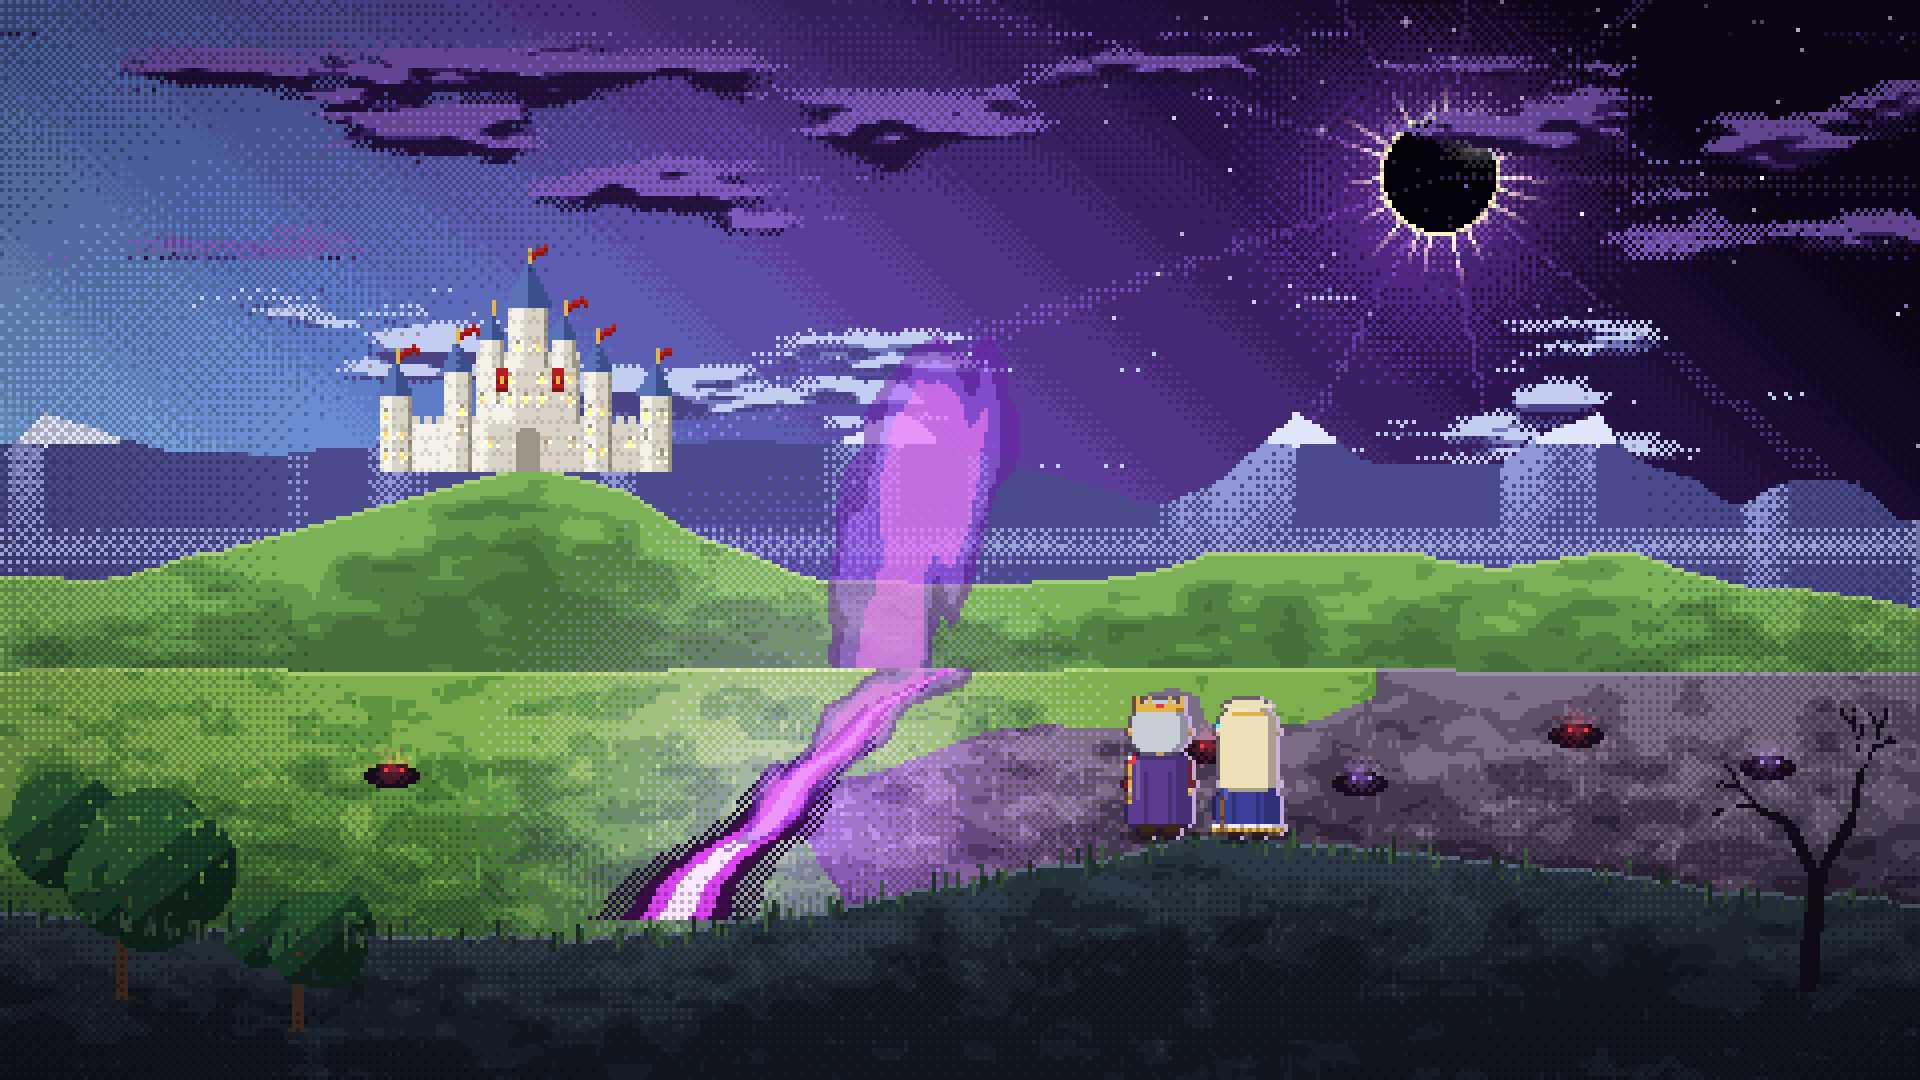
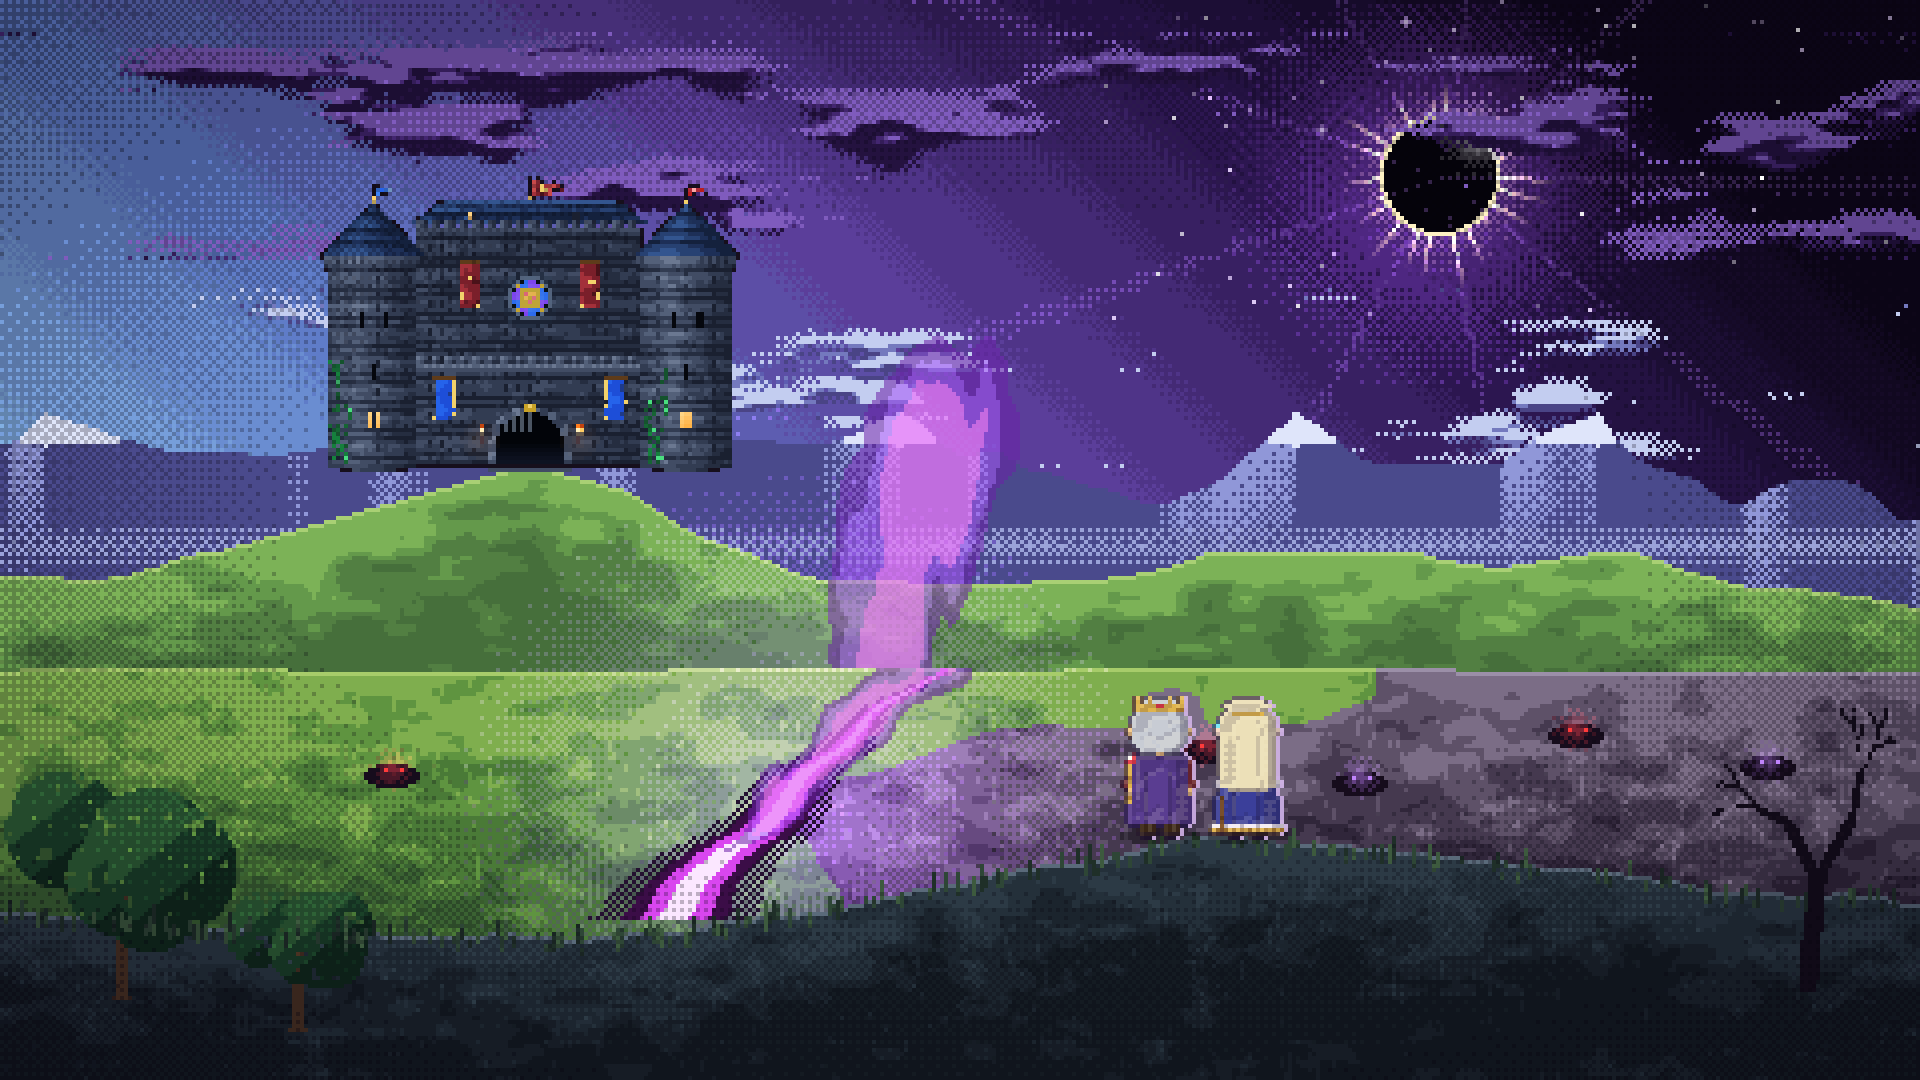
ft: singular layout of the castle and new version of critical damage system

Changed region(s): [[0.1562, 0.1528, 0.4062, 0.4583], [0.5938, 0.6417, 0.6875, 0.7639]]

diff --git a/tools/art/lib/sprites.js b/tools/art/lib/sprites.js
@@ -13,9 +13,12 @@ import { MageClass } from "../../../js/classes/mage.js";
 import { PriestClass } from "../../../js/classes/priest.js";
 import { ArcherClass } from "../../../js/classes/archer.js";
 import { FighterClass } from "../../../js/classes/fighter.js";
+import { describe } from "../../../js/items/itemdb.js";
+import { iconCanvas } from "../../../js/items/icons.js";
 
 const CLASSES = { knight: KnightClass, mage: MageClass, priest: PriestClass, archer: ArcherClass, fighter: FighterClass };
 const cache = new Map();
+const zoneCache = new Map();
 
 // Reference looks for Book I NPCs added with Acts XI–XV, used when js/npc/roster.js has no entry
 // for them yet (the roster wins once it does). Copy these into NPC_DEFS to keep the art in step.
@@ -63,8 +66,36 @@ export function boss(key, dir = "down", anim = "idle", i = 0) { return BOSSES[ke
 
 export const DEFAULT_LOOK = DEFAULT_CONFIG;
 
-import { describe } from "../../../js/items/itemdb.js";
-import { iconCanvas } from "../../../js/items/icons.js";
+/** A frame of an exported zone illustration (e.g. the Imperial Citadel). */
+export async function zone(key, i = 0, cropHeight = null) {
+  const cacheKey = `${key}:${cropHeight || "full"}`;
+  if (!zoneCache.has(cacheKey)) {
+    zoneCache.set(cacheKey, (async () => {
+      const base = new URL(`../../../assets/sprites/zone/${key}`, import.meta.url);
+      const response = await fetch(new URL(`${base.href}.json`));
+      if (!response.ok) throw new Error(`could not load ${base.href}.json`);
+      const data = await response.json();
+      const image = await new Promise((resolve, reject) => {
+        const img = new Image();
+        img.onload = () => resolve(img);
+        img.onerror = () => reject(new Error(`could not load ${base.href}.png`));
+        img.src = `${base.href}.png`;
+      });
+      const frames = Array.isArray(data.frames) ? data.frames : Object.values(data.frames);
+      return frames.map(({ frame }) => {
+        const canvas = document.createElement("canvas");
+        const h = cropHeight ? Math.min(cropHeight, frame.h) : frame.h;
+        canvas.width = frame.w;
+        canvas.height = h;
+        canvas.getContext("2d").drawImage(image, frame.x, frame.y, frame.w, h, 0, 0, frame.w, h);
+        return canvas;
+      });
+    })());
+  }
+  const frames = await zoneCache.get(cacheKey);
+  if (!frames.length) throw new Error(`zone sprite ${key} has no frames`);
+  return frames[((i % frames.length) + frames.length) % frames.length];
+}
 /** 16×16 item icon by item id (e.g. lance, tower, greatstaff, grimoire, longbow, claws) */
 export function icon(id) { return iconCanvas(describe({ id })); }
 

diff --git a/tools/art/scenes/act01.js b/tools/art/scenes/act01.js
@@ -1,8 +1,8 @@
 // Act I — The Sundered Dominion of Aethelgard
 // The King and the Crown Heir watch the Eclipse of the Abyss from a ridge above the plains: the
 // white Imperial Citadel still stands, but the valley floor has split and Void Miasma pours out.
-export function paint(P, { R, K, S }) {
-  const { hex, eclipse, clouds, ridgeFn, ridge, castle, fogBand, oak, stars, mixC, dith, fbm, clamp, groundTex, stand, rimLight } = K;
+export async function paint(P, { R, K, S }) {
+  const { hex, eclipse, clouds, ridgeFn, ridge, fogBand, oak, stars, mixC, dith, fbm, clamp, groundTex, stand, rimLight } = K;
 
   // Sky: azure on the left giving way to amethyst and black under the eclipse
   const skyStops = [[0, hex("#8cc0ec")], [0.3, hex("#5f7cc8")], [0.55, hex("#5b3e9a")], [0.78, hex("#2c1650")], [1, hex("#0d0618")]];
@@ -22,7 +22,7 @@ export function paint(P, { R, K, S }) {
   ridge(P, mid, groundTex(["#9bc46a", "#6fa452", "#5a8f48", "#4a7a40", "#3d6838"], { seed: 3, depth: 40, strokes: false }));
   const hillTop = (x) => mid(x) - Math.max(0, 22 - Math.abs(x - 132) * 0.28);
   ridge(P, hillTop, groundTex(["#a9d074", "#7cb257", "#64994b", "#527f42", "#466f3b"], { seed: 8, depth: 30, strokes: false }));
-  castle(P, 132, hillTop(132) + 2, { scale: 0.58, style: "imperial", seed: 9, glow: true });
+  P.blit(await S.zone("castle", 0, 210), 132 - 56, hillTop(132) + 2 - 74, { scale: 0.35 });
 
   // Valley floor: green on the left, blighted to grey-violet toward the eclipse
   const valley = (x) => 166 + K.fbm1(x * 0.02, 8) * 3;

diff --git a/js/prologue.js b/js/prologue.js
@@ -1,6 +1,7 @@
 import { getLang } from "./i18n.js";
 import { Sound } from "./audio.js";
 import { Avatar } from "./avatar/avatar.js";
+import { sheetCount, sheetDurations, sheetFrame } from "./avatar/sheets.js";
 import { NPC_DEFS, summonerIdFor } from "./npc/roster.js";
 import { npcName } from "./dialogue.js";
 
@@ -61,6 +62,20 @@ function ridge(ctx, baseY, amp, step, color, seed, shift = 0) {
 
 // Silhouette of the Imperial Citadel (used in scenes 1 and 2)
 function citadel(ctx, cx, baseY, stone, shade, t, bannerA = "#8a2c2c", bannerB = "#ffd166") {
+  const key = "zone/castle", frames = sheetCount(key, "down", "idle");
+  const durations = sheetDurations(key, "down", "idle");
+  const total = durations.reduce((sum, duration) => sum + duration, 0) || frames * 100;
+  let elapsed = total ? ((t * 1000 / 60) % total) : 0, index = 0;
+  while (index < frames - 1 && elapsed >= (durations[index] || 100)) elapsed -= durations[index++] || 100;
+  const frame = frames ? sheetFrame(key, "down", "idle", index) : null;
+  if (frame) {
+    const w = 176, h = 187;
+    const prev = ctx.imageSmoothingEnabled;
+    ctx.imageSmoothingEnabled = false;
+    ctx.drawImage(frame, Math.round(cx - w / 2), Math.round(baseY - h), w, h);
+    ctx.imageSmoothingEnabled = prev;
+    return;
+  }
   const towers = [[-58, 46, 10], [-34, 62, 12], [-8, 84, 16], [20, 62, 12], [44, 46, 10]];
   ctx.fillStyle = stone;
   ctx.fillRect(cx - 64, baseY - 30, 128, 30);                    // pader

diff --git a/tools/art/scenes/title.js b/tools/art/scenes/title.js
@@ -2,8 +2,8 @@
 // Night on the cliff above the Imperial Citadel: the sword the Lantern Knight left behind stands in
 // the seal altar, a lantern hanging from its hilt, while the eclipse rises over the sea.
 // The sword's glow sits at (0.5, 0.42) of the picture: js/title.js draws its animated glow there.
-export function paint(P, { R, K }) {
-  const { hex, sky, stars, eclipse, clouds, ridgeFn, ridge, castle, water, fogBand, runeCircle, POINT_COLORS, groundTex, rock, sparks, moon } = K;
+export async function paint(P, { R, K, S }) {
+  const { hex, sky, stars, eclipse, clouds, ridgeFn, ridge, water, fogBand, runeCircle, POINT_COLORS, groundTex, rock, sparks, moon } = K;
 
   sky(P, [[0, hex("#04060f")], [0.5, hex("#121a3a")], [0.85, hex("#2c2a5a")], [1, hex("#4a3a6a")]], 0, 170, 3);
   stars(P, R, 220, { y1: 150, big: 0.07 });
@@ -14,7 +14,7 @@ export function paint(P, { R, K }) {
   water(P, 150, 210, { deep: "#060a1a", mid: "#0f1a3a", light: "#2a3a6a", foam: "#8aa0d8", seed: 2, reflect: "#c4b5fd", reflectX: 392, reflectW: 10 });
   const shore = ridgeFn({ base: 152, amp: 22, freq: 0.02, seed: 4, sharp: 0.5 });
   ridge(P, (x) => (x < 170 ? shore(x) : 400), "#141838", { light: "#262c58" });
-  castle(P, 84, shore(84) + 4, { scale: 0.42, style: "imperial", seed: 3, glow: true });
+  P.blit(await S.zone("castle", 0, 210), 84 - 45, shore(84) + 4 - 59, { scale: 0.28 });
   fogBand(P, 168, 10, "#2c3466", 0.5, 5);
 
   // the cliff and the altar steps

diff --git a/js/projectiles.js b/js/projectiles.js
@@ -152,7 +152,7 @@ export class ProjectileManager {
         for (let e of enemies) {
           if (e.isAlive && Math.hypot(cx(e) - p.x, cy(e) - p.y) <= 12 + hr(e)) {
             hit = true;
-            enemyManager.damage(e, p.crit ? Math.round(p.damage * 1.8) : p.damage, Math.atan2(p.vy, p.vx), Boolean(p.crit), fx, lootManager, 6, false, player, p.elem);
+            enemyManager.damage(e, p.damage, Math.atan2(p.vy, p.vx), Boolean(p.crit), fx, lootManager, 6, false, player, p.elem);
             if (p.freeze && !e.boss) { e.stunTimer = Math.max(e.stunTimer, p.freeze); e.frozen = p.freeze; }
             if (fx) fx.spawnHitSparks(cx(e), cy(e), p.color, 10);
             break;
@@ -188,7 +188,7 @@ export class ProjectileManager {
           if (e.isAlive && !p.hit.has(e) && Math.hypot(cx(e) - p.x, cy(e) - p.y) <= p.radius + hr(e)) {
             p.hit.add(e);
             const bonus = p.markBonus && e.isMarkedCritical ? p.markBonus : 1;   // Fighter: bonus against a marked foe
-            enemyManager.damage(e, Math.round(p.damage * bonus), p.angle, bonus > 1, fx, lootManager, p.push || 16, false, player, p.elem || null);
+            enemyManager.damage(e, Math.round(p.damage * bonus), p.angle, false, fx, lootManager, p.push || 16, false, player, p.elem || null);
             if (bonus > 1) e.isMarkedCritical = false;
             if (fx) fx.spawnHitSparks(cx(e), cy(e), p.color || "#ffd166", 10);
           }

diff --git a/js/enemy.js b/js/enemy.js
@@ -885,10 +885,12 @@ export class EnemyManager {
       amount = (amount + player.attack) * (player.dmgMult || 1) * (player.buffs && player.buffs.damage > 0 ? 1.5 : 1) * (d.curse > 0 ? 0.75 : 1);
       // No criticals while blind or cursed
       const canCrit = !(d.blind > 0 || d.curse > 0);
-      if (!isCrit && canCrit && Math.random() < (player.crit || 0)) { isCrit = true; amount *= 1.8; }
-      amount = Math.round(amount);
+      if (!canCrit) isCrit = false;
+      else if (!isCrit && Math.random() < (player.crit || 0)) isCrit = true;
       if (!this.hitSource && player.noteHit) player.noteHit(enemy, isCrit);   // play style (js/skillpaths.js)
-    } else amount = Math.round(amount);   // allies and familiars: whole numbers after element/tier
+    }
+    if (isCrit) amount *= 1.8;
+    amount = Math.round(amount);   // whole numbers after modifiers, including critical damage
 
     enemy.hp -= amount;
     // Last-hit rule: only a kill landed by the hero (or the hero's summons) earns EXP and loot.

diff --git a/js/main.js b/js/main.js
@@ -1432,6 +1432,10 @@ const unlockAudio = () => {
 });
 
 window.addEventListener("keydown", (e) => {
+  if (e.code === "Escape") {
+    e.preventDefault();
+    if (e.repeat) return;
+  }
   Sound.init();
   if (e.code === "F2") { stage.tilemap.debug = !stage.tilemap.debug; e.preventDefault(); }
 
@@ -1472,6 +1476,8 @@ window.addEventListener("keydown", (e) => {
     if (e.code === "KeyI" || e.code === "Escape") inventory.close();
   } else if (gameState === "PLAYING" && charPanel.open) {
     if (e.code === "KeyC" || e.code === "Escape") charPanel.close();
+  } else if (gameState === "PLAYING" && actionPanel.editing && e.code === "Escape") {
+    actionPanel.setEditing(false);
   } else if (gameState === "PLAYING" || gameState === "PAUSED") {
     // R = the lore panel's "Read more" (keyboard shortcut)
     if (e.code === "KeyR" && gameState === "PLAYING" && !showShopModal && !showMercModal) {
